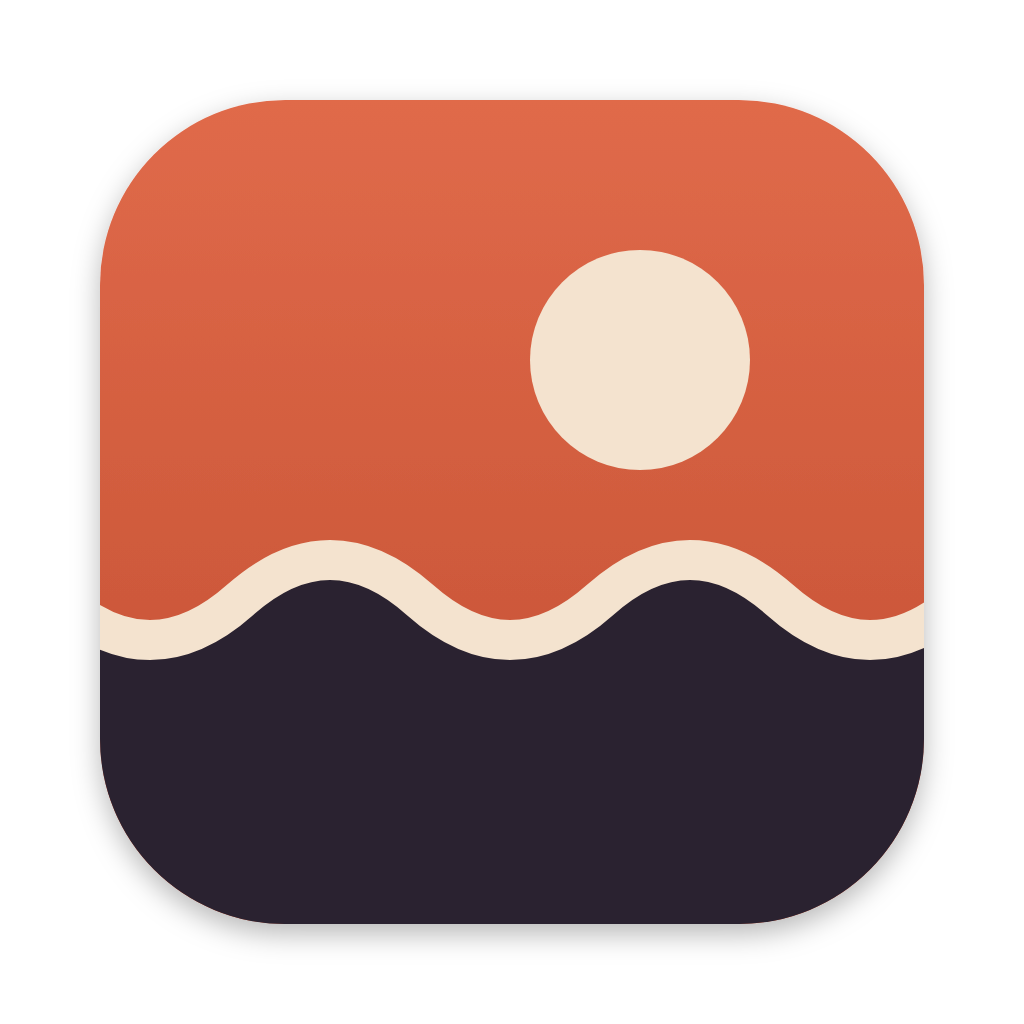
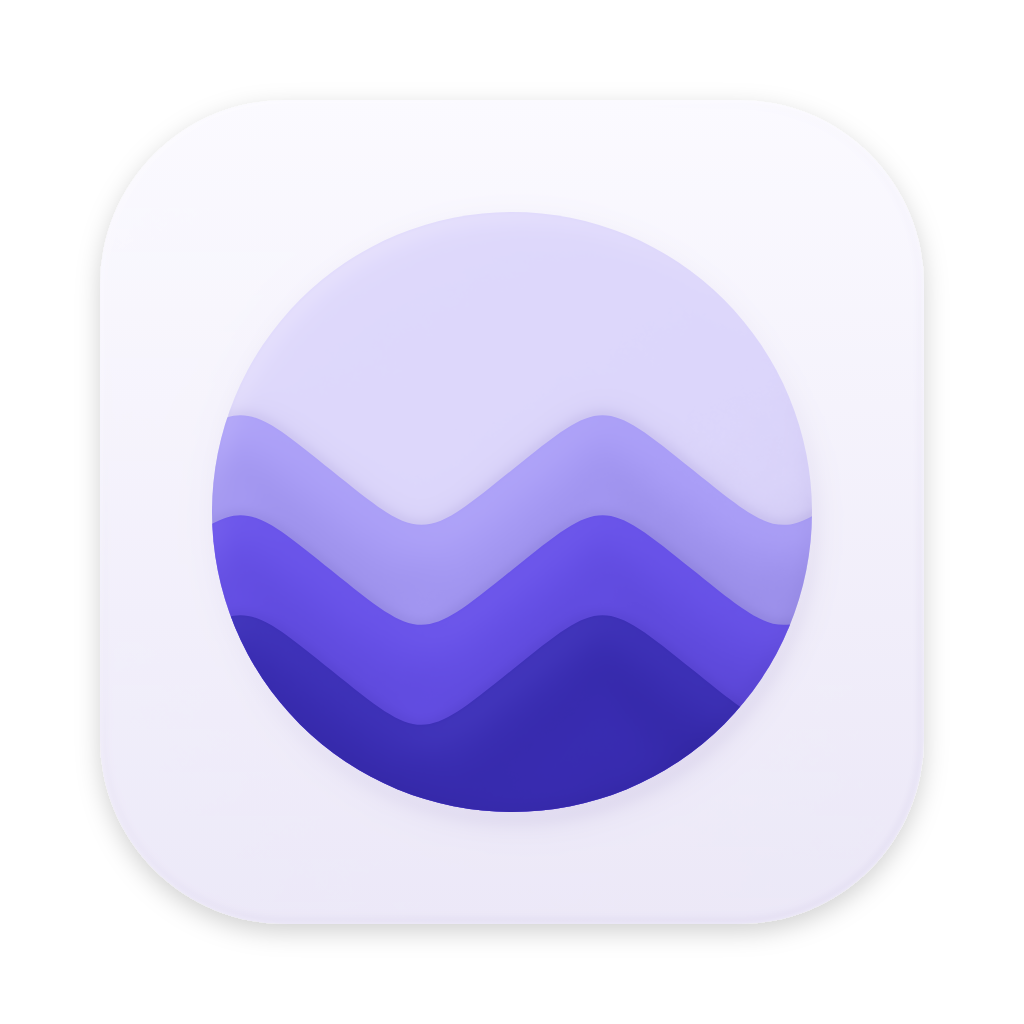
feat(weft): Tide 图标改为潮汐圆（圆中三层浪，雾紫哑光陶瓷）
落日海浪的暖色复古风审美疲劳，且没有表达这是什么软件。经过与 Gemini、Codex 的多轮调研和讨论，
定稿为一个圆收住三层由浅到深的浪：层层叠起的多代理产出，被圆收住表示掌控。
应用图标换成 Codex 按矢量定稿渲染的哑光陶瓷版；侧边栏左上角用同一几何的矢量标，
品牌色定义为 weft.css 中的 --tide-mark-*。

Claude Opus 5.5 · Claude Code

diff --git a/apps/web/src/weft/TideMark.tsx b/apps/web/src/weft/TideMark.tsx
@@ -1,13 +1,31 @@
-import type { SVGProps } from "react";
+import { useId, type SVGProps } from "react";
 
 // Weft: the personal build is branded "Tide" so it never reads as official T3 Code.
-export const TIDE_ACCENT = "var(--app-theme-accent, #D45C3D)";
+// Same geometry as the app icon (weft/assets/tide-icon.svg): three tide layers held in a circle.
+// Brand colors live in weft.css as --tide-mark-*.
+const LAYERS = [
+  { y: 470, fill: "var(--tide-mark-back)" },
+  { y: 570, fill: "var(--tide-mark-mid)" },
+  { y: 670, fill: "var(--tide-mark-front)" },
+] as const;
+const wave = (y: number) =>
+  `M150 ${y} c90.5 -73.15 90.5 -73.15 181 0 s90.5 73.15 181 0 c90.5 -73.15 90.5 -73.15 181 0 s90.5 73.15 181 0 V900 H150 Z`;
 
 export function TideGlyph(props: SVGProps<SVGSVGElement>) {
+  const clip = `tide-glyph-${useId()}`;
   return (
-    <svg viewBox="0 0 120 64" fill="none" strokeWidth={9} strokeLinecap="round" {...props}>
-      <path d="M6 24 q13.5 -16 27 0 t27 0 t27 0 t27 0" stroke={TIDE_ACCENT} />
-      <path d="M6 46 q13.5 -16 27 0 t27 0 t27 0 t27 0" stroke="currentColor" />
+    <svg viewBox="212 212 600 600" {...props}>
+      <defs>
+        <clipPath id={clip}>
+          <circle cx="512" cy="512" r="300" />
+        </clipPath>
+      </defs>
+      <g clipPath={`url(#${clip})`}>
+        <rect x="212" y="212" width="600" height="600" fill="var(--tide-mark-sky)" />
+        {LAYERS.map((layer) => (
+          <path key={layer.y} d={wave(layer.y)} fill={layer.fill} />
+        ))}
+      </g>
     </svg>
   );
 }
@@ -16,7 +34,7 @@ export function TideWordmark({ className }: { className?: string }) {
   return (
     // oxlint-disable-next-line t3code/no-untranslated-copy -- product wordmark
     <span className={className} role="img" aria-label="Tide">
-      <TideGlyph aria-hidden className="h-[1.15cap] w-auto shrink-0" />
+      <TideGlyph aria-hidden className="size-[1.4cap] shrink-0" />
       {/* oxlint-disable-next-line t3code/no-untranslated-copy -- product wordmark */}
       <span className="[text-box:trim-both_cap_alphabetic]">{"Tide"}</span>
     </span>

diff --git a/apps/web/src/weft/weft.css b/apps/web/src/weft/weft.css
@@ -10,6 +10,11 @@
   --weft-dur-hover: 150ms;
   --weft-dur-state: 200ms;
   --weft-dur-layout: 250ms;
+  /* Tide brand mark (same colors as the app icon). */
+  --tide-mark-sky: #dcd6fb;
+  --tide-mark-back: #a89cf7;
+  --tide-mark-mid: #6650e8;
+  --tide-mark-front: #3a2db4;
 }
 
 /* Theme skins may declare --weft-tick-color to override the default accent color. */
